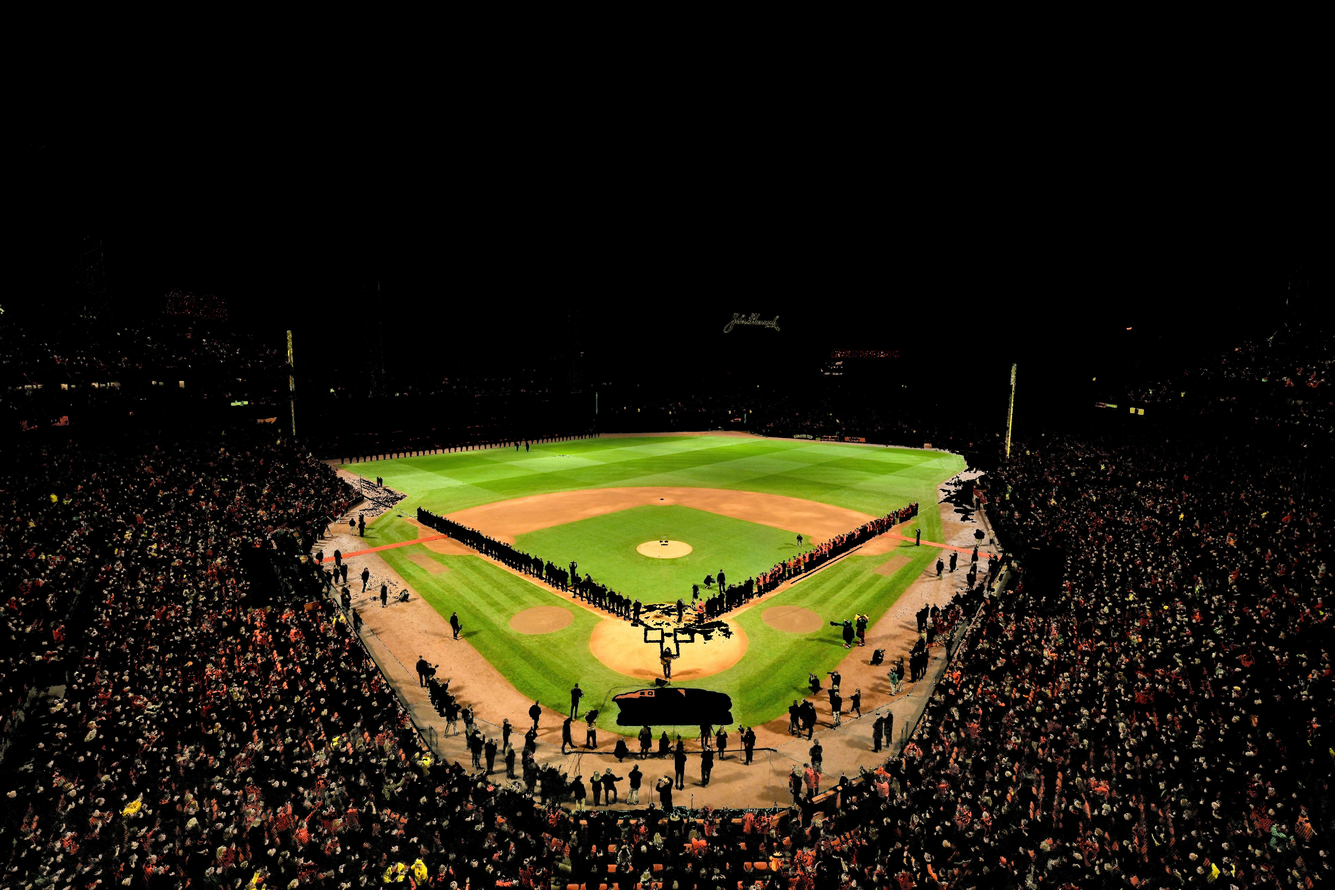
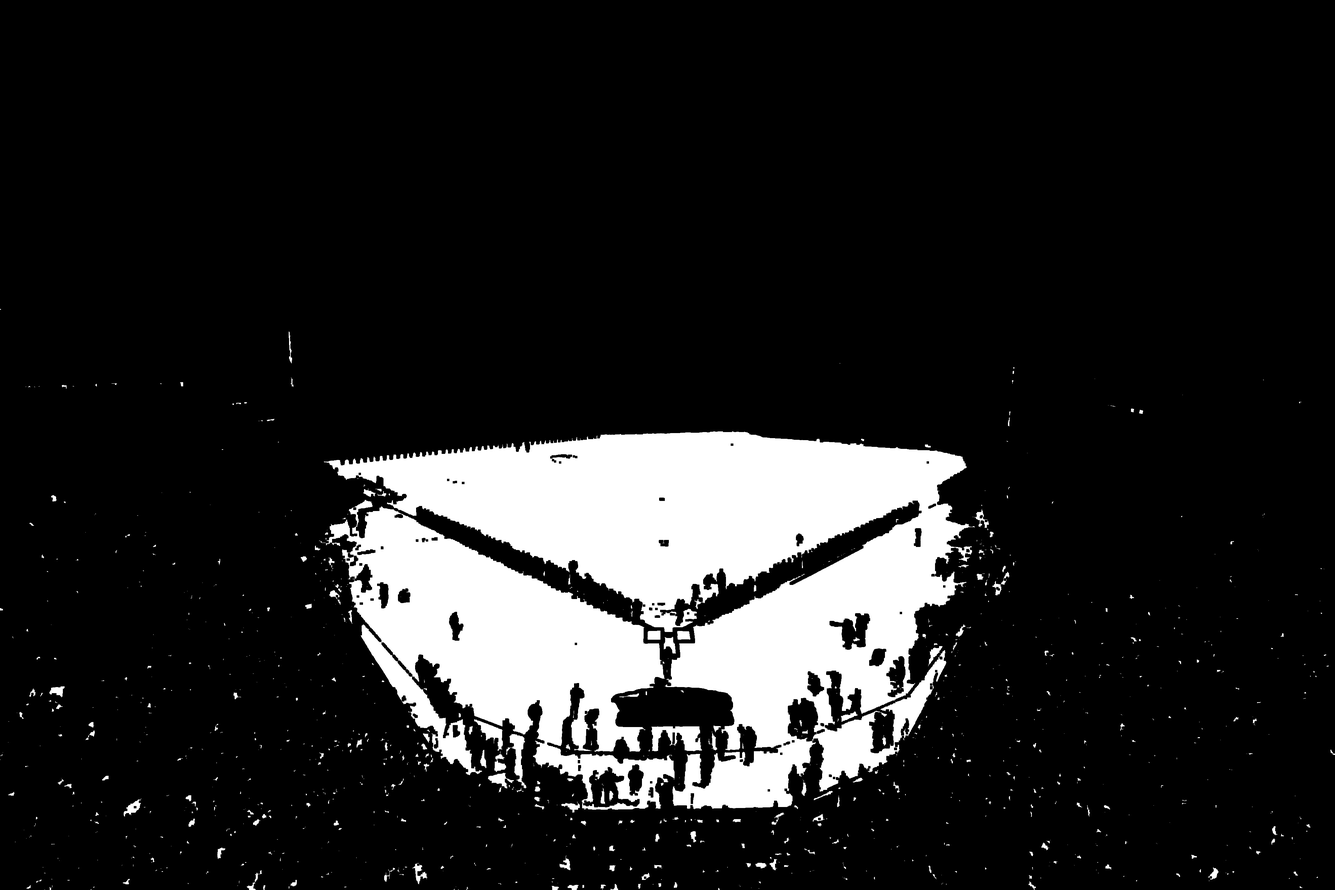
finish thresholds for now. add dark brown thresh

diff --git a/TestPersonDetection/personDetectionTesting.py b/TestPersonDetection/personDetectionTesting.py
@@ -6,18 +6,17 @@ import numpy
 
 class PlayerFinder(object):
     def __init__(self):
-        self.lower_green = numpy.array((10, 50, 15), dtype=numpy.uint8)
+        self.lower_green = numpy.array((17, 50, 20), dtype=numpy.uint8)
         self.upper_green = numpy.array((72, 255, 242), dtype=numpy.uint8)
 
-        self.lower_brown = numpy.array((5, 110, 25), dtype=numpy.uint8)
-        self.upper_brown = numpy.array((30, 255, 255), dtype=numpy.uint8)
+        self.lower_brown = numpy.array((7, 80, 25), dtype=numpy.uint8)
+        self.upper_brown = numpy.array((27, 255, 255), dtype=numpy.uint8)
 
-        
-        self.lower_dark_brown = numpy.array((0, 75, 0), dtype=numpy.uint8)
-        self.upper_dark_brown = numpy.array((9, 255, 144), dtype=numpy.uint8)
+        self.lower_dark_brown = numpy.array((2, 93, 25), dtype=numpy.uint8)
+        self.upper_dark_brown = numpy.array((10, 175, 150), dtype=numpy.uint8)
         """
-        self.lower_field = numpy.array((1, 45, 14), dtype=numpy.uint8)
-        self.upper_field = numpy.array((72, 255, 242), dtype=numpy.uint8)"""
+        self.lower_dark_green = numpy.array((1, 45, 14), dtype=numpy.uint8)
+        self.upper_dark_green = numpy.array((72, 255, 242), dtype=numpy.uint8)"""
 
         # pixel area of the bounding rectangle - just used to remove stupidly small regions
         self.contour_min_area = 100
@@ -51,23 +50,15 @@ class PlayerFinder(object):
         mask_green = cv2.inRange(hsv, self.lower_green, self.upper_green)
         mask_brown = cv2.inRange(hsv, self.lower_brown, self.upper_brown)
         mask_dark_brown = cv2.inRange(hsv, self.lower_dark_brown, self.upper_dark_brown)
-        #mask_shadow_brown = cv2.inRange(hsv, self.lower_shadow_brown, self.upper_brown)
-        #mask_field = cv2.inRange(hsv, self.lower_field, self.upper_field)
-        #Do masking
 
         mask = cv2.bitwise_or(mask_green, mask_brown)
         mask = cv2.bitwise_or(mask, mask_dark_brown)
         
-        res = cv2.bitwise_and(image,image, mask=mask)
-
-        #res_gray = cv2.cvtColor(res,cv2.COLOR_BGR2GRAY)
-
-        #Defining a kernel to do morphological operation in threshold image to 
-        #get better output.
+        #res = cv2.bitwise_and(image,image, mask=mask)
 
         erosion = cv2.erode(mask, numpy.ones((7,7), numpy.uint8), iterations = 1)
 
-        return res
+        return erosion
         """
          #find contours in threshold image     
         _, self.contours, _ = cv2.findContours(res_gray, cv2.RETR_TREE, cv2.CHAIN_APPROX_SIMPLE)
